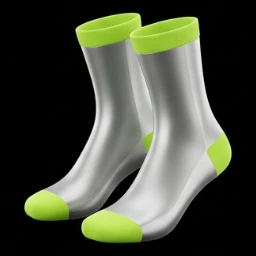
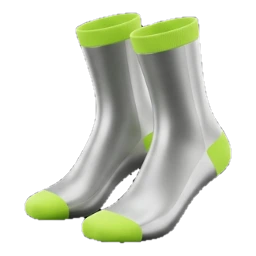
복장 영역 제목을 오늘 추천 복장으로 바꾸고 복장 이미지를 투명 배경으로 변경
- 복장 영역 기본 제목을 오늘의 복장에서 오늘 추천 복장으로 변경
- 복장 일러스트 29개를 검정 배경에서 투명 배경 WebP로 변환
- 투명 배경이라 필요 없어진 mix-blend-screen 제거

diff --git a/src/components/OutfitPanel.tsx b/src/components/OutfitPanel.tsx
@@ -4,12 +4,12 @@ import OutfitIcon from './outfit/OutfitIcon';
 
 interface OutfitPanelProps {
   items: OutfitItem[];
-  /** 영역 제목 (기본: 오늘의 복장) */
+  /** 영역 제목 (기본: 오늘 추천 복장) */
   title?: string;
 }
 
 /** 복장 추천 영역 (3D 메탈릭 일러스트, 분류 순서대로 이어 붙인 3열 그리드) */
-export default function OutfitPanel({ items, title = '오늘의 복장' }: OutfitPanelProps) {
+export default function OutfitPanel({ items, title = '오늘 추천 복장' }: OutfitPanelProps) {
   const orderedItems = groupOutfitByCategory(items).flatMap((group) => group.items);
   return (
     <section className="rounded-panel border border-card-border-ink bg-card-charcoal p-6">

diff --git a/src/components/outfit/OutfitIcon.tsx b/src/components/outfit/OutfitIcon.tsx
@@ -7,7 +7,7 @@ interface OutfitIconProps {
 }
 
 /**
- * 복장 일러스트를 그린다. 검정 배경 이미지라 screen 블렌드로 어두운 카드와 섞는다.
+ * 복장 일러스트를 그린다. 투명 배경 이미지라 카드 위에 그대로 올린다.
  * 이름은 옆의 label 텍스트가 대신하므로 대체 텍스트는 비운다.
  * @param icon 일러스트 키
  * @param className 크기 등 추가 클래스
@@ -21,7 +21,7 @@ export default function OutfitIcon({ icon, className }: OutfitIconProps) {
       alt=""
       loading="lazy"
       decoding="async"
-      className={`mix-blend-screen ${className ?? ''}`}
+      className={className}
     />
   );
 }

diff --git a/src/components/HomeSummary.tsx b/src/components/HomeSummary.tsx
@@ -13,7 +13,7 @@ interface HomeSummaryProps {
   onSelectActivity: (activity: Activity) => void;
 }
 
-/** 첫 화면 요약: 활동 칩 → 가이드 헤드라인 → 러닝 지수 → 오늘의 복장(1단) */
+/** 첫 화면 요약: 활동 칩 → 가이드 헤드라인 → 러닝 지수 → 오늘 추천 복장(1단) */
 export default function HomeSummary({
   activities,
   activity,
